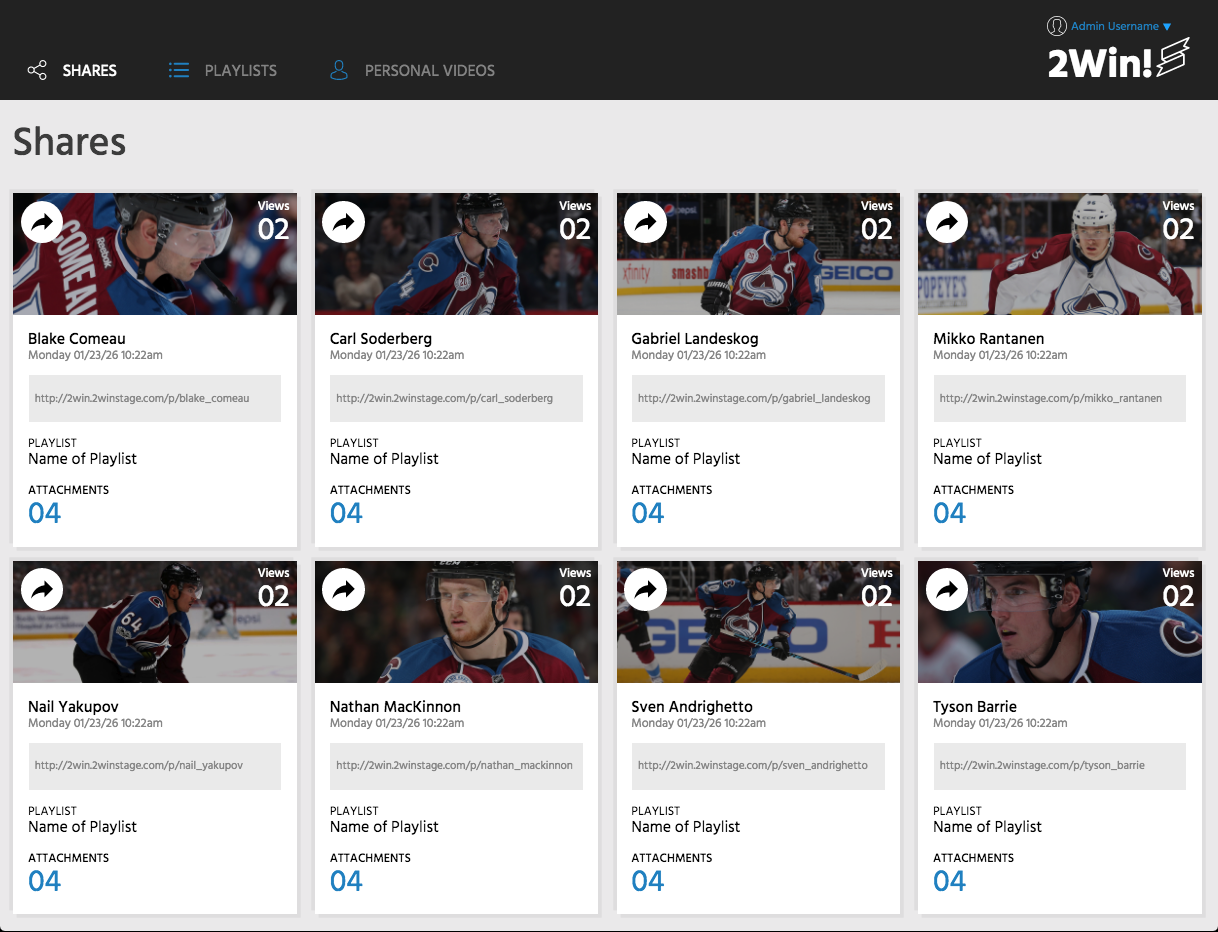
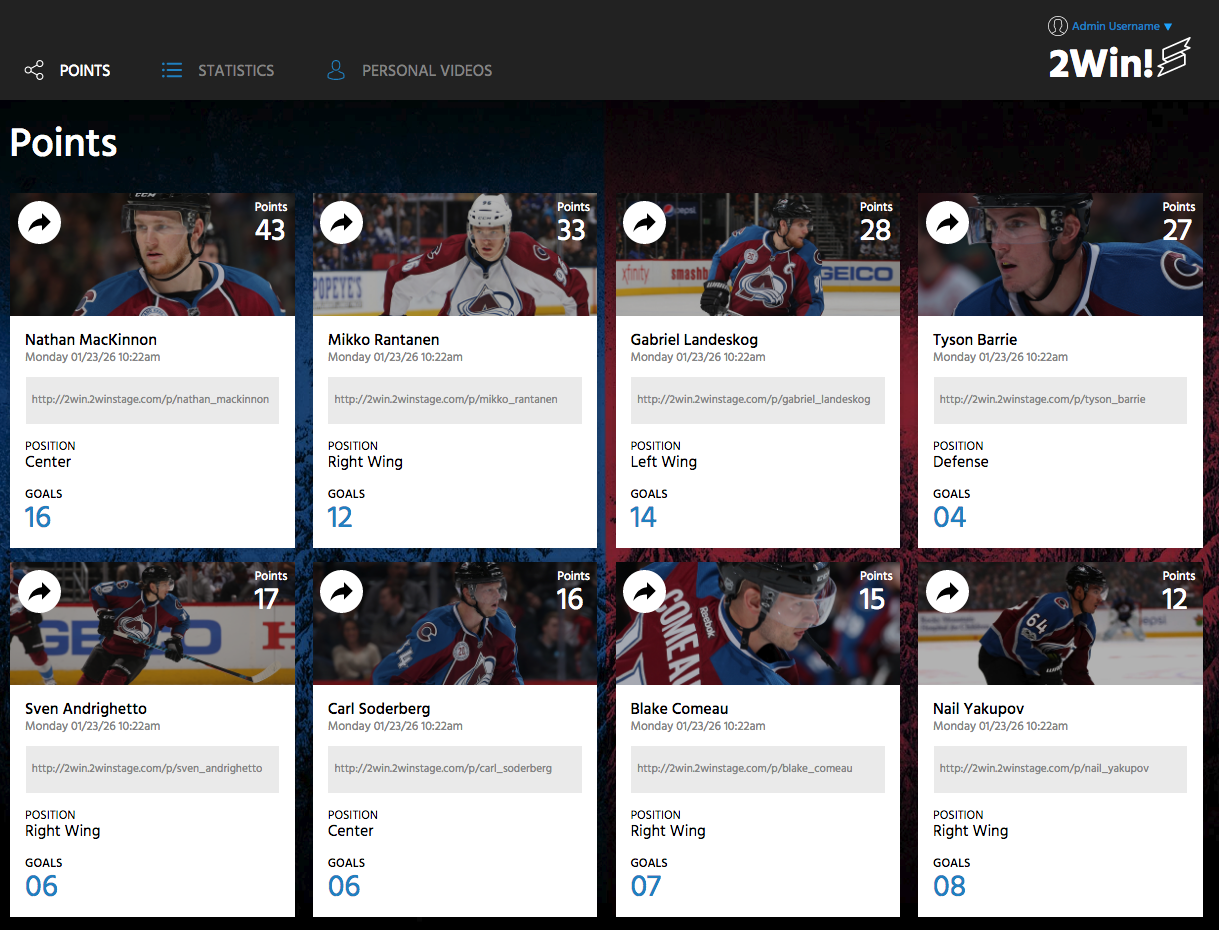
Resolving conflicts

diff --git a/index.html b/index.html
@@ -10,8 +10,8 @@
 <body>
   <header id="page-header">
     <section id="header-links">
-      <img src="img/share.svg"><p id="shares-text">SHARES</p>
-      <img src="img/list.svg"><p id="playlist-text">PLAYLISTS</p>
+      <img src="img/share.svg"><p id="shares-text">POINTS</p>
+      <img src="img/list.svg"><p id="playlist-text">STATISTICS</p>
       <img src="img/avatar.svg"><p id="videos-text">PERSONAL VIDEOS</p>
     </section>
     <section id="login">
@@ -23,119 +23,119 @@
   </header>
   <main>
     <section id="shares">
-      <h2>Shares</h2>
+      <h2>Points</h2>
     </section>
-    <article>
-      <header class="picture" id="comeau"></header>
-      <img src="img/forward-arrow.svg">
-      <aside> Views</br><span>02</span></aside>
-      <h3 class="name">Blake Comeau</h3>
-      <p class="date">Monday 01/23/26 10:22am</p>
-      <section class="address">
-        <p>http://2win.2winstage.com/p/blake_comeau</p>
-      </section>
-      <h4 class="playlist">PLAYLIST</h4>
-      <h3 class="name-of-playlist">Name of Playlist</h3>
-      <h4 class="attachments">ATTACHMENTS</h4>
-      <p class="attachment-quantity">04</p>
-    </article>
-    <article>
-      <header class="picture" id="soderberg"></header>
-      <img src="img/forward-arrow.svg">
-      <aside> Views</br><span>02</span></aside>
-      <h3 class="name">Carl Soderberg</h3>
-      <p class="date">Monday 01/23/26 10:22am</p>
-      <section class="address">
-        <p>http://2win.2winstage.com/p/carl_soderberg</p>
-      </section>
-      <h4 class="playlist">PLAYLIST</h4>
-      <h3 class="name-of-playlist">Name of Playlist</h3>
-      <h4 class="attachments">ATTACHMENTS</h4>
-      <p class="attachment-quantity">04</p>
-    </article>
-    <article>
-      <header class="picture" id="landeskog"></header>
-      <img src="img/forward-arrow.svg">
-      <aside> Views</br><span>02</span></aside>
-      <h3 class="name">Gabriel Landeskog</h3>
-      <p class="date">Monday 01/23/26 10:22am</p>
-      <section class="address">
-        <p>http://2win.2winstage.com/p/gabriel_landeskog</p>
-      </section>
-      <h4 class="playlist">PLAYLIST</h4>
-      <h3 class="name-of-playlist">Name of Playlist</h3>
-      <h4 class="attachments">ATTACHMENTS</h4>
-      <p class="attachment-quantity">04</p>
-    </article>
-    <article>
-      <header class="picture" id="rantanen"></header>
-      <img src="img/forward-arrow.svg">
-      <aside> Views</br><span>02</span></aside>
-      <h3 class="name">Mikko Rantanen</h3>
-      <p class="date">Monday 01/23/26 10:22am</p>
-      <section class="address">
-        <p>http://2win.2winstage.com/p/mikko_rantanen</p>
-      </section>
-      <h4 class="playlist">PLAYLIST</h4>
-      <h3 class="name-of-playlist">Name of Playlist</h3>
-      <h4 class="attachments">ATTACHMENTS</h4>
-      <p class="attachment-quantity">04</p>
-    </article>
-    <article>
-      <header class="picture" id="yakupov"></header>
-      <img src="img/forward-arrow.svg">
-      <aside> Views</br><span>02</span></aside>
-      <h3 class="name">Nail Yakupov</h3>
-      <p class="date">Monday 01/23/26 10:22am</p>
-      <section class="address">
-        <p>http://2win.2winstage.com/p/nail_yakupov</p>
-      </section>
-      <h4 class="playlist">PLAYLIST</h4>
-      <h3 class="name-of-playlist">Name of Playlist</h3>
-      <h4 class="attachments">ATTACHMENTS</h4>
-      <p class="attachment-quantity">04</p>
-    </article>
     <article>
       <header class="picture" id="mackinnon"></header>
       <img src="img/forward-arrow.svg">
-      <aside> Views</br><span>02</span></aside>
+      <aside> Points</br><span>43</span></aside>
       <h3 class="name">Nathan MacKinnon</h3>
       <p class="date">Monday 01/23/26 10:22am</p>
       <section class="address">
         <p>http://2win.2winstage.com/p/nathan_mackinnon</p>
       </section>
-      <h4 class="playlist">PLAYLIST</h4>
-      <h3 class="name-of-playlist">Name of Playlist</h3>
-      <h4 class="attachments">ATTACHMENTS</h4>
-      <p class="attachment-quantity">04</p>
+      <h4 class="playlist">POSITION</h4>
+      <h3 class="name-of-playlist">Center</h3>
+      <h4 class="attachments">GOALS</h4>
+      <p class="attachment-quantity">16</p>
     </article>
     <article>
-      <header class="picture" id="andrighetto"></header>
+      <header class="picture" id="rantanen"></header>
       <img src="img/forward-arrow.svg">
-      <aside> Views</br><span>02</span></aside>
-      <h3 class="name">Sven Andrighetto</h3>
+      <aside> Points</br><span>33</span></aside>
+      <h3 class="name">Mikko Rantanen</h3>
       <p class="date">Monday 01/23/26 10:22am</p>
       <section class="address">
-        <p>http://2win.2winstage.com/p/sven_andrighetto</p>
+        <p>http://2win.2winstage.com/p/mikko_rantanen</p>
       </section>
-      <h4 class="playlist">PLAYLIST</h4>
-      <h3 class="name-of-playlist">Name of Playlist</h3>
-      <h4 class="attachments">ATTACHMENTS</h4>
-      <p class="attachment-quantity">04</p>
+      <h4 class="playlist">POSITION</h4>
+      <h3 class="name-of-playlist">Right Wing</h3>
+      <h4 class="attachments">GOALS</h4>
+      <p class="attachment-quantity">12</p>
+    </article>
+    <article>
+      <header class="picture" id="landeskog"></header>
+      <img src="img/forward-arrow.svg">
+      <aside> Points</br><span>28</span></aside>
+      <h3 class="name">Gabriel Landeskog</h3>
+      <p class="date">Monday 01/23/26 10:22am</p>
+      <section class="address">
+        <p>http://2win.2winstage.com/p/gabriel_landeskog</p>
+      </section>
+      <h4 class="playlist">POSITION</h4>
+      <h3 class="name-of-playlist">Left Wing</h3>
+      <h4 class="attachments">GOALS</h4>
+      <p class="attachment-quantity">14</p>
     </article>
     <article>
       <header class="picture" id="barrie"></header>
       <img src="img/forward-arrow.svg">
-      <aside> Views</br><span>02</span></aside>
+      <aside> Points</br><span>27</span></aside>
       <h3 class="name">Tyson Barrie</h3>
       <p class="date">Monday 01/23/26 10:22am</p>
       <section class="address">
         <p>http://2win.2winstage.com/p/tyson_barrie</p>
       </section>
-      <h4 class="playlist">PLAYLIST</h4>
-      <h3 class="name-of-playlist">Name of Playlist</h3>
-      <h4 class="attachments">ATTACHMENTS</h4>
+      <h4 class="playlist">POSITION</h4>
+      <h3 class="name-of-playlist">Defense</h3>
+      <h4 class="attachments">GOALS</h4>
       <p class="attachment-quantity">04</p>
+    </article>
+    <article>
+      <header class="picture" id="andrighetto"></header>
+      <img src="img/forward-arrow.svg">
+      <aside> Points</br><span>17</span></aside>
+      <h3 class="name">Sven Andrighetto</h3>
+      <p class="date">Monday 01/23/26 10:22am</p>
+      <section class="address">
+        <p>http://2win.2winstage.com/p/sven_andrighetto</p>
+      </section>
+      <h4 class="playlist">POSITION</h4>
+      <h3 class="name-of-playlist">Right Wing</h3>
+      <h4 class="attachments">GOALS</h4>
+      <p class="attachment-quantity">06</p>
+    </article>
+    <article>
+      <header class="picture" id="soderberg"></header>
+      <img src="img/forward-arrow.svg">
+      <aside> Points</br><span>16</span></aside>
+      <h3 class="name">Carl Soderberg</h3>
+      <p class="date">Monday 01/23/26 10:22am</p>
+      <section class="address">
+        <p>http://2win.2winstage.com/p/carl_soderberg</p>
+      </section>
+      <h4 class="playlist">POSITION</h4>
+      <h3 class="name-of-playlist">Center</h3>
+      <h4 class="attachments">GOALS</h4>
+      <p class="attachment-quantity">06</p>
+    </article>
+    <article>
+      <header class="picture" id="comeau"></header>
+      <img src="img/forward-arrow.svg">
+      <aside> Points</br><span>15</span></aside>
+      <h3 class="name">Blake Comeau</h3>
+      <p class="date">Monday 01/23/26 10:22am</p>
+      <section class="address">
+        <p>http://2win.2winstage.com/p/blake_comeau</p>
+      </section>
+      <h4 class="playlist">POSITION</h4>
+      <h3 class="name-of-playlist">Right Wing</h3>
+      <h4 class="attachments">GOALS</h4>
+      <p class="attachment-quantity">07</p>
+    </article>
+    <article>
+      <header class="picture" id="yakupov"></header>
+      <img src="img/forward-arrow.svg">
+      <aside> Points</br><span>12</span></aside>
+      <h3 class="name">Nail Yakupov</h3>
+      <p class="date">Monday 01/23/26 10:22am</p>
+      <section class="address">
+        <p>http://2win.2winstage.com/p/nail_yakupov</p>
+      </section>
+      <h4 class="playlist">POSITION</h4>
+      <h3 class="name-of-playlist">Right Wing</h3>
+      <h4 class="attachments">GOALS</h4>
+      <p class="attachment-quantity">08</p>
     </article>
   </main>
 </body>

diff --git a/css/styles.css b/css/styles.css
@@ -14,7 +14,9 @@ html {
 }
 
 main {
-  background-color: rgb(237, 236, 237);
+  background-image: url(../img/Avs-background.jpg);
+  background-size: 101% 101%;
+  background-position: -1vw;
   margin: 0;
   padding: .5vw;
 }
@@ -119,7 +121,7 @@ h2 {
   margin-left: .5vw;
   font-size: 40px;
   font-weight: 500;
-  color: rgb(68,68,68);
+  color: white;
   position: absolute;
   bottom: 22%;
 }
@@ -944,7 +946,7 @@ article span {
 
   main {
     padding: 1vw;
-    height: 135vw;
+    height: 600vw;
     overflow-y: scroll;
   }
 

diff --git a/README.md b/README.md
@@ -6,7 +6,7 @@ In each challenge we are asked to recreate a static comp with the objective to b
 We were not provided with any assets, nor native files. We have not been provided breakpoint specific comps. We may NOT take liberties with the layout, but our creative license includes: Copy, Images, Icons, and Color palette, but ONLY if we select a complementary palette.
 
 This is my static-comp:
-![cy-comp](img/cy-comp-challenge-2%20screenshot.png)
+![cy-comp](cy-comp-challenge-2%20screenshot.png)
 
 
 This is the provided static-comp:
